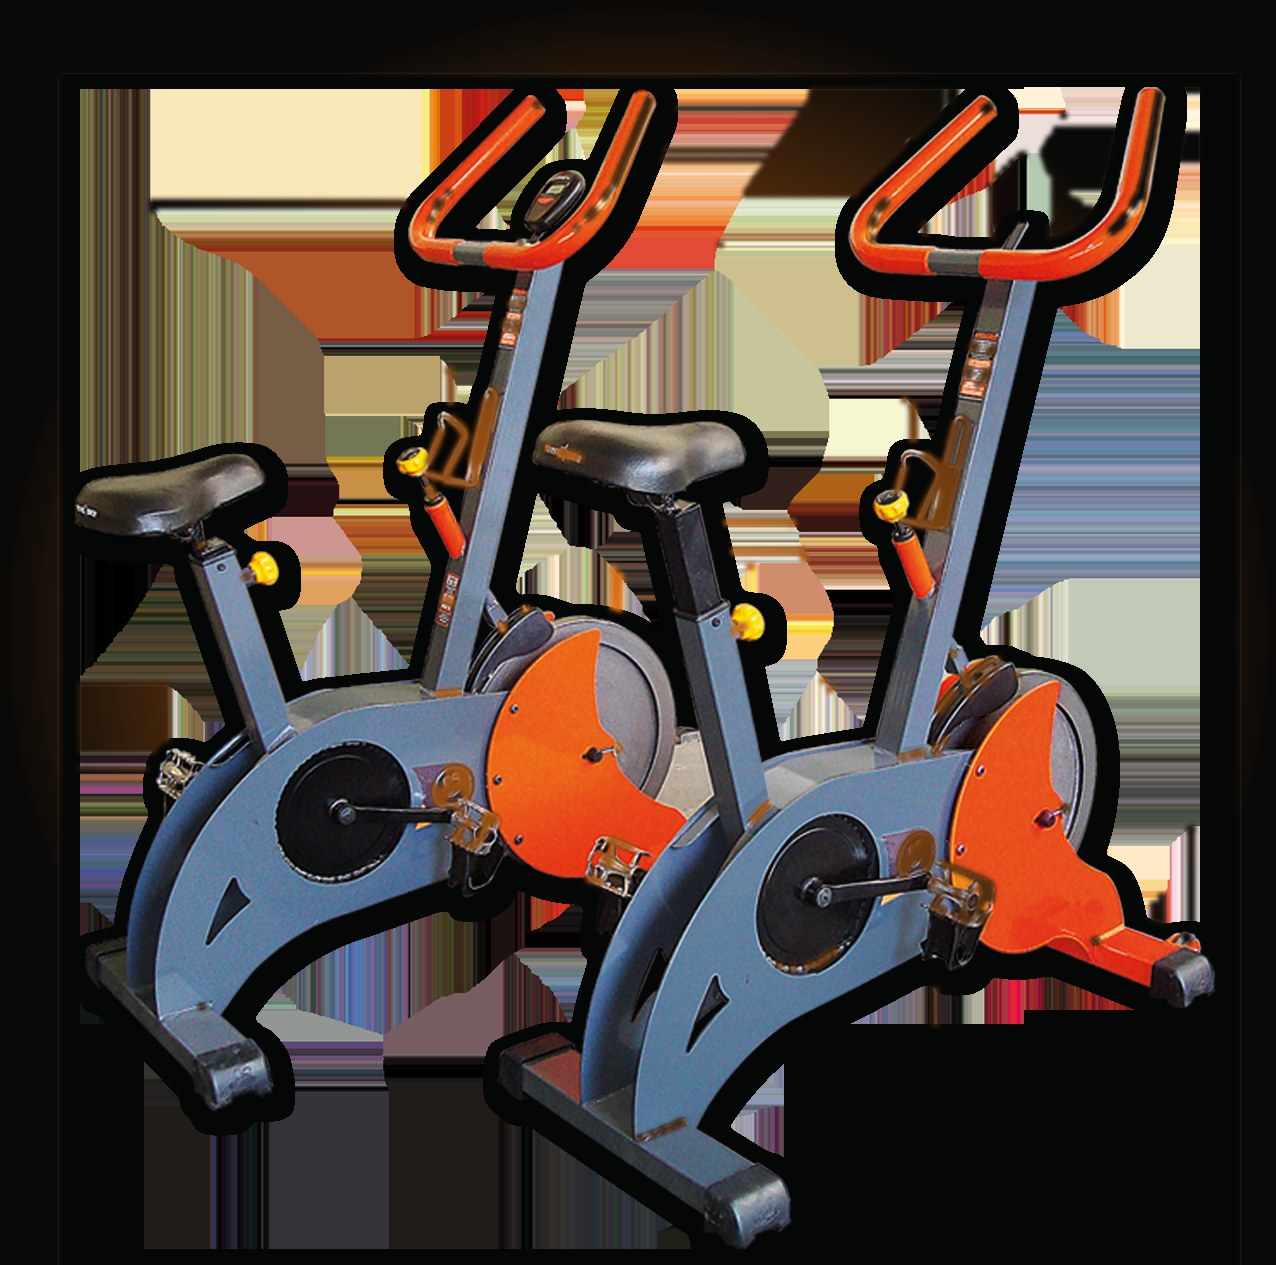
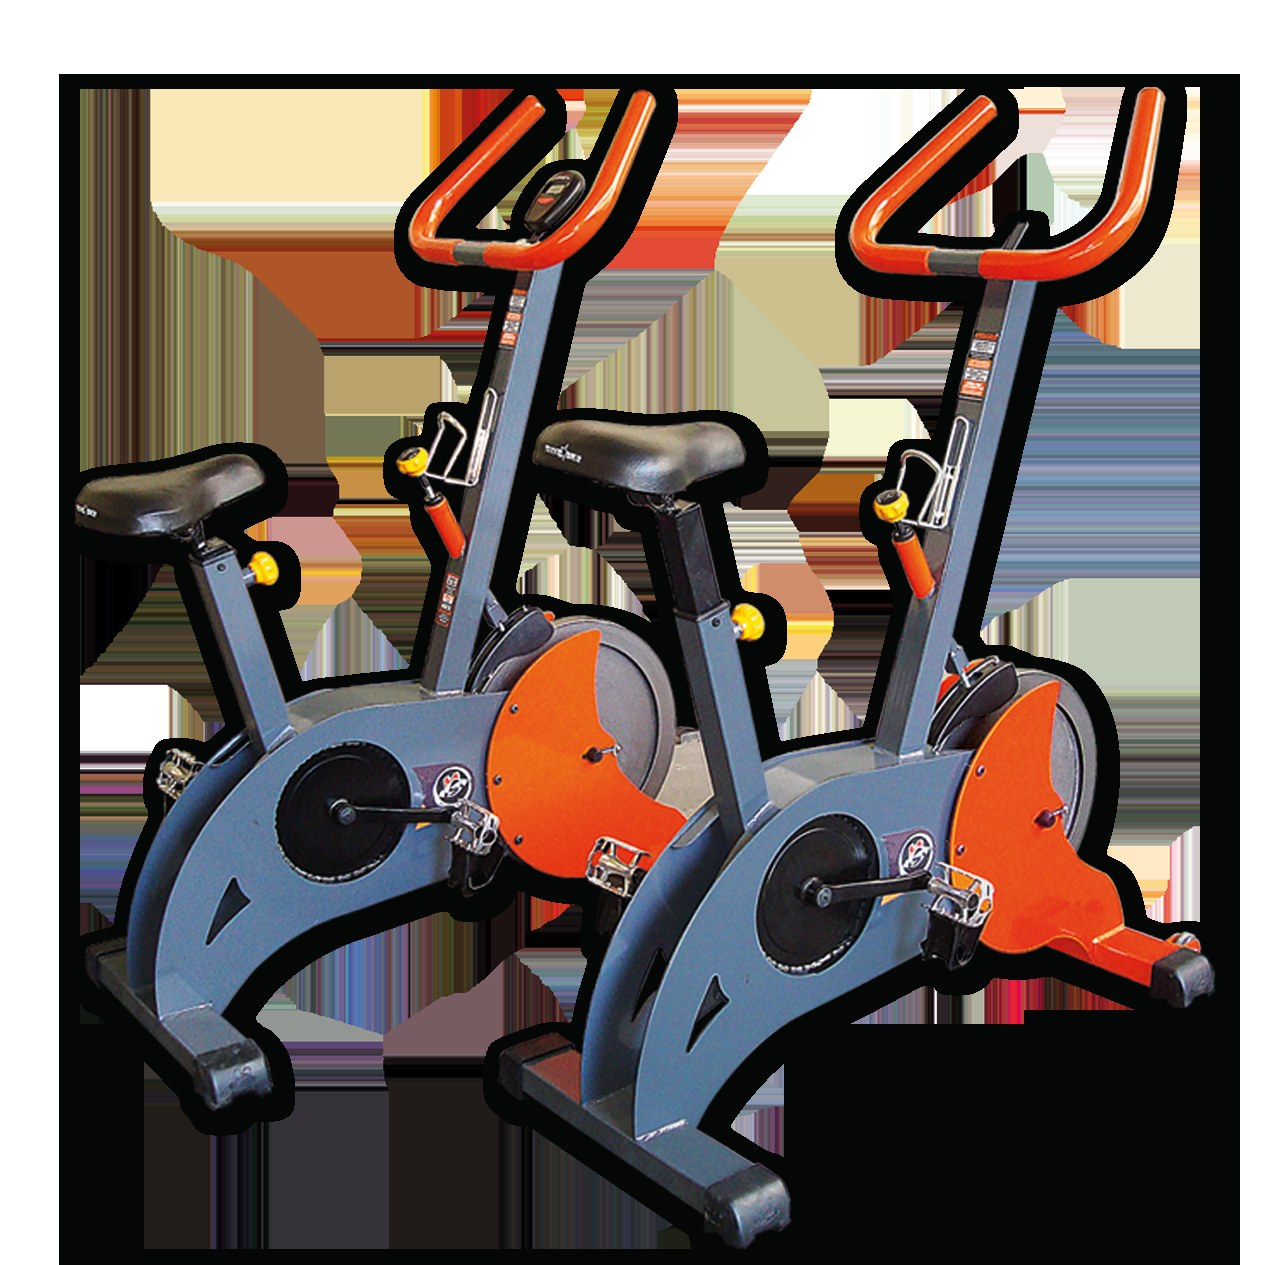
Portadas: máquinas recortadas (fondo transparente) sobre degradado naranja difuminado en la card (no se toca la foto)

diff --git a/index.html b/index.html
@@ -441,13 +441,14 @@
         .product-card:hover { border-color: var(--orange); transform: translateY(-6px); box-shadow: 0 20px 50px rgba(255,102,0,0.15); }
         .product-img {
             height: 180px; overflow: hidden; position: relative;
-            background: #181818;
+            background: radial-gradient(circle at 50% 44%, #d9761d 0%, #7c3e0e 40%, #100c0b 100%);
             display: flex; align-items: center; justify-content: center;
         }
         .product-photo {
-            width: 100%; height: 100%; object-fit: cover; display: block;
+            width: 100%; height: 100%; object-fit: contain; padding: 12px; display: block;
             transition: transform 0.45s;
         }
+        .product-photo--fill { object-fit: cover; padding: 0; }
         .product-card:hover .product-photo { transform: scale(1.06); }
         .product-img-placeholder { width:100%; height:100%; display:flex; align-items:center; justify-content:center; font-size:3rem; }
         .product-img-overlay {
@@ -1002,7 +1003,7 @@
         <div class="products-grid">
             <a href="catalogo.html?cat=linea-proline" class="product-card reveal" onclick="trackCatalog()">
                 <div class="product-img">
-                    <img class="product-photo" src="assets/portadas/proline.jpg" alt="Línea ProLine" loading="lazy">
+                    <img class="product-photo" src="assets/portadas/proline.png" alt="Línea ProLine" loading="lazy">
                     <div class="product-img-overlay"></div>
                     <span class="product-badge-img">ProLine</span>
                 </div>
@@ -1015,7 +1016,7 @@
             </a>
             <a href="catalogo.html?cat=linea-max" class="product-card reveal" onclick="trackCatalog()">
                 <div class="product-img">
-                    <img class="product-photo" src="assets/portadas/max.jpg" alt="Línea Max" loading="lazy">
+                    <img class="product-photo" src="assets/portadas/max.png" alt="Línea Max" loading="lazy">
                     <div class="product-img-overlay"></div>
                     <span class="product-badge-img">Max</span>
                 </div>
@@ -1028,7 +1029,7 @@
             </a>
             <a href="catalogo.html?cat=linea-a-palanca" class="product-card reveal" onclick="trackCatalog()">
                 <div class="product-img">
-                    <img class="product-photo" src="assets/portadas/palanca.jpg" alt="Línea a Palanca" loading="lazy">
+                    <img class="product-photo" src="assets/portadas/palanca.png" alt="Línea a Palanca" loading="lazy">
                     <div class="product-img-overlay"></div>
                     <span class="product-badge-img">Palanca</span>
                 </div>
@@ -1041,7 +1042,7 @@
             </a>
             <a href="catalogo.html?cat=linea-aerobica" class="product-card reveal" onclick="trackCatalog()">
                 <div class="product-img">
-                    <img class="product-photo" src="assets/portadas/aerobica.jpg" alt="Línea Aeróbica" loading="lazy">
+                    <img class="product-photo" src="assets/portadas/aerobica.png" alt="Línea Aeróbica" loading="lazy">
                     <div class="product-img-overlay"></div>
                     <span class="product-badge-img">Aeróbica</span>
                 </div>
@@ -1054,7 +1055,7 @@
             </a>
             <a href="catalogo.html?cat=linea-hogar" class="product-card reveal" onclick="trackCatalog()">
                 <div class="product-img">
-                    <img class="product-photo" src="assets/portadas/hogar.jpg" alt="Línea Hogar" loading="lazy">
+                    <img class="product-photo product-photo--fill" src="assets/portadas/hogar.jpg" alt="Línea Hogar" loading="lazy">
                     <div class="product-img-overlay"></div>
                     <span class="product-badge-img">Hogar</span>
                 </div>
@@ -1067,7 +1068,7 @@
             </a>
             <a href="catalogo.html?cat=entrenamiento-funcional" class="product-card reveal" onclick="trackCatalog()">
                 <div class="product-img">
-                    <img class="product-photo" src="assets/portadas/funcional.jpg" alt="Entrenamiento Funcional" loading="lazy">
+                    <img class="product-photo" src="assets/portadas/funcional.png" alt="Entrenamiento Funcional" loading="lazy">
                     <div class="product-img-overlay"></div>
                     <span class="product-badge-img">Funcional</span>
                 </div>
@@ -1080,7 +1081,7 @@
             </a>
             <a href="catalogo.html?cat=aire-libre" class="product-card reveal" onclick="trackCatalog()">
                 <div class="product-img">
-                    <img class="product-photo" src="assets/portadas/aire-libre.jpg" alt="Aire Libre" loading="lazy">
+                    <img class="product-photo" src="assets/portadas/aire-libre.png" alt="Aire Libre" loading="lazy">
                     <div class="product-img-overlay"></div>
                     <span class="product-badge-img">Aire Libre</span>
                 </div>
@@ -1093,7 +1094,7 @@
             </a>
             <a href="catalogo.html?cat=accesorios" class="product-card reveal" onclick="trackCatalog()">
                 <div class="product-img">
-                    <img class="product-photo" src="assets/portadas/accesorios.jpg" alt="Accesorios" loading="lazy">
+                    <img class="product-photo" src="assets/portadas/accesorios.png" alt="Accesorios" loading="lazy">
                     <div class="product-img-overlay"></div>
                     <span class="product-badge-img">Accesorios</span>
                 </div>